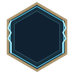
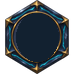
Refresh energy, cost, suppression and storm-ring art

diff --git a/assets/animation/ui/manifest.js b/assets/animation/ui/manifest.js
@@ -1,1 +1,1 @@
[2 lines of base64/hex data omitted]

diff --git a/src/Volibear/Presentation/DomainStormRing.cs b/src/Volibear/Presentation/DomainStormRing.cs
@@ -3,11 +3,14 @@ using Godot;
 
 namespace Volibear.Presentation;
 
-/// <summary>Foot-anchored storm volume, drawn within the actor's visual layer, below native status UI.</summary>
+/// <summary>Foot-anchored storm volume, drawn within the actor's visual layer, below native status UI.
+/// The painted lightning-field texture replaces the thin procedural ellipse: layered electric bands,
+/// jagged arcs and rising spikes give the domain real thickness instead of a single thin circle.</summary>
 internal static class DomainStormRing
 {
     internal const float Radius = 300f;
-    private const int Panels = 48, Bolts = 12;
+    internal const string AuraPath = "res://VolibearArt/ui/images/domain_storm_aura.png";
+    private const int Bolts = 12;
     private static Vector2 Ground(float angle, float radius) => new(Mathf.Cos(angle) * radius, Mathf.Sin(angle) * radius * .24f - 5f);
     private static CanvasItemMaterial Light() => new() { BlendMode = CanvasItemMaterial.BlendModeEnum.Add, LightMode = CanvasItemMaterial.LightModeEnum.Unshaded };
 
@@ -15,53 +18,51 @@ internal static class DomainStormRing
     {
         // Never use negative global Z (behind the opaque room) or raise above health/status UI.
         root.ZIndex = 0;
-        for (int i = 0; i < 6; i++)
-            root.AddChild(new Line2D { Name = "LightningArc" + i, Antialiased = true,
-                Width = i == 0 ? 58 : i == 1 ? 24 : 4,
-                DefaultColor = i == 0 ? new Color(.04f, .38f, 1f, .16f) : i == 1 ? new Color(.04f, .55f, 1f, .48f) : new Color(.55f, .91f, 1f, .95f),
-                Material = Light() });
-        var wall = new Node2D { Name = "StormWall" };
-        root.AddChild(wall);
-        var light = Light();
-        for (int i = 0; i < Panels; i++)
+        var texture = GD.Load<Texture2D>(AuraPath);
+        if (texture is not null)
         {
-            float a = i * Mathf.Tau / Panels, b = (i + 1) * Mathf.Tau / Panels;
-            var p = Ground(a, Radius); var q = Ground(b, Radius);
-            float height = 38f + 8f * Mathf.Sin(a * 3f);
-            wall.AddChild(new Polygon2D { Name = "StormBand" + i, Material = light,
-                Polygon = new[] { p, q, q - new Vector2(0, height), p - new Vector2(0, height) },
-                VertexColors = new[] { new Color(.05f,.5f,1f,.08f), new Color(.05f,.5f,1f,.08f), new Color(.1f,.65f,1f,.28f), new Color(.1f,.65f,1f,.28f) } });
+            var aura = new Sprite2D { Name = "StormAura", Texture = texture, Centered = true, Material = Light() };
+            root.AddChild(aura);
+            var inner = new Sprite2D { Name = "StormAuraInner", Texture = texture, Centered = true, Material = Light(),
+                Modulate = new Color(.75f, .92f, 1f, .55f) };
+            root.AddChild(inner);
         }
+        // A few procedural spikes keep the field alive between painted keyframes.
         var bolts = new Node2D { Name = "StormBolts" };
         root.AddChild(bolts);
+        var light = Light();
         for (int i = 0; i < Bolts; i++)
-            bolts.AddChild(new Line2D { Name = "RisingBolt" + i, Width = 2.8f, Antialiased = true,
-                DefaultColor = new Color(.35f, .8f, 1f, .9f), Material = light });
+            bolts.AddChild(new Line2D { Name = "RisingBolt" + i, Width = 3.2f, Antialiased = true,
+                DefaultColor = new Color(.42f, .86f, 1f, .92f), Material = light });
         Animate(root, Time.GetTicksMsec() / 1000f);
     }
 
     internal static void Animate(Node2D root, float time)
     {
-        for (int arc = 0; arc < 6; arc++)
+        float breathe = 1f + .025f * Mathf.Sin(time * 1.1f);
+        if (root.GetNodeOrNull<Sprite2D>("StormAura") is { Texture: { } texture } aura)
         {
-            var points = new Vector2[arc < 2 ? 97 : 25];
-            for (int p = 0; p < points.Length; p++)
-            {
-                float angle = p / (float)(points.Length - 1) * Mathf.Tau * (arc < 2 ? 1f : .28f)
-                    + time * (arc % 2 == 0 ? .65f : -.8f) + arc * 1.7f;
-                float jitter = arc < 2 ? 2f * Mathf.Sin(angle * 9f + time * 3f)
-                    : 13f * Mathf.Sin(p * 17.1f + MathF.Floor(time * 14f) * 2.3f + arc);
-                points[p] = Ground(angle, Radius + (arc - 2) * 5f + jitter);
-                if (arc >= 2) points[p] -= new Vector2(0, (arc - 2) * 11f);
-            }
-            root.GetChild<Line2D>(arc).Points = points;
+            // The painted band is sized to the pinned 600 x 144 foot ellipse, then breathes.
+            float scale = 620f / texture.GetWidth();
+            aura.Position = new Vector2(0, -30f);
+            aura.Scale = new Vector2(scale * breathe, scale * (2f - breathe));
+            aura.Modulate = new Color(1f, 1f, 1f, .86f + .14f * (.5f + .5f * Mathf.Sin(time * 2.6f)));
         }
-        var bolts = root.GetNode<Node2D>("StormBolts");
+        if (root.GetNodeOrNull<Sprite2D>("StormAuraInner") is { Texture: { } innerTexture } inner)
+        {
+            float scale = 470f / innerTexture.GetWidth();
+            inner.Position = new Vector2(0, -22f);
+            inner.Scale = new Vector2(scale * (2f - breathe), scale * breathe);
+            inner.Rotation = .015f * Mathf.Sin(time * .7f);
+            inner.Modulate = new Color(.8f, .95f, 1f, .38f + .12f * (.5f + .5f * Mathf.Sin(time * 1.9f + 1.2f)));
+        }
+        var bolts = root.GetNodeOrNull<Node2D>("StormBolts");
+        if (bolts is null) return;
         for (int i = 0; i < Bolts; i++)
         {
             float angle = i * Mathf.Tau / Bolts + time * .16f;
             var foot = Ground(angle, Radius + 5f);
-            float height = 48f + 25f * (.5f + .5f * Mathf.Sin(time * 4f + i * 2.1f));
+            float height = 46f + 28f * (.5f + .5f * Mathf.Sin(time * 4f + i * 2.1f));
             var points = new Vector2[7];
             for (int p = 0; p < points.Length; p++)
             {

diff --git a/assets/animation/ui/scripts/build_ui.py b/assets/animation/ui/scripts/build_ui.py
@@ -56,24 +56,47 @@ def energy_state_emblem(size,charged):
     d.polygon([(x*z,y*z) for x,y in bolt],fill=colors[3])
     return im.resize((size,size),Image.Resampling.LANCZOS)
 
+AUTHORED = {
+    'big_energy.png': 'card cost frame: authored 2026-11-05 storm-gold ring; flat opaque numeric centre',
+    'energy_master.png': 'charged HUD emblem: authored 2026-11-05 storm crest, painterly cyan lightning',
+    'big_energy_empty.png': 'empty HUD emblem: authored 2026-11-05 depleted crest, cold steel, no charge light',
+    'energy_orb_charged.png': 'charged HUD orb: authored 2026-11-05 painted electric sphere + gold rune rim',
+    'energy_orb_empty.png': 'empty HUD orb: authored 2026-11-05 cold depleted sphere, no charge light',
+    'domain_suppress_seal.png': 'domain suppression seal icon: authored 2026-11-05 struck-through bolt rune',
+    'domain_storm_aura.png': 'domain storm aura VFX: authored 2026-11-05 layered electric ground band',
+}
+
+
+def authored_row(name, basis):
+    path = ROOT / 'images' / name
+    with Image.open(path) as image:
+        size, mode = list(image.size), image.mode
+    return {'id': Path(name).stem, 'file': 'images/' + name, 'size': size, 'mode': mode,
+            'role': basis.split(':', 1)[0], 'basis': basis, 'sha256': sha(path)}
+
+
+def refresh_authored(manifest):
+    for name, basis in AUTHORED.items():
+        path = ROOT / 'images' / name
+        if not path.is_file():
+            continue
+        row = next((row for row in manifest['assets'] if row['file'] == 'images/' + name), None)
+        fresh = authored_row(name, basis)
+        if row is None:
+            manifest['assets'].append(fresh)
+        else:
+            row.update(fresh)
+
+
 def energy_only():
-    """Update only the three authorized assets and their existing manifest rows."""
-    manifest_path=ROOT/'manifest.json';manifest=json.loads(manifest_path.read_text())
-    before={p:sha(p) for p in (ROOT/'images').glob('*.png')}
-    outputs={
-        'big_energy.png':(cost_badge(74),'card cost frame: solid ink-blue numeric center; rim-only lightning'),
-        'energy_master.png':(energy_state_emblem(256,True),'charged HUD emblem: bright blue-white energy'),
-        'big_energy_empty.png':(energy_state_emblem(74,False),'empty HUD emblem: cold dark metal, no charge light'),
-    }
-    for name,(image,basis) in outputs.items():
-        path=ROOT/'images'/name;image.save(path)
-        row=next(row for row in manifest['assets'] if row['file']=='images/'+name)
-        row.update(sha256=sha(path),size=list(image.size),mode=image.mode,basis=basis)
-    for path,digest in before.items():
-        if path.name not in outputs:assert sha(path)==digest, 'Unapproved image changed: '+str(path)
-    manifest_path.write_text(json.dumps(manifest,ensure_ascii=False,indent=2)+'\n')
-    (ROOT/'manifest.js').write_text('window.VOLIBEAR_UI='+json.dumps(manifest,ensure_ascii=False,separators=(',',':'))+';\n')
-    print('Updated only:', ', '.join(outputs))
+    """Keep the authored energy art; only refresh its manifest identity."""
+    manifest_path = ROOT / 'manifest.json'
+    manifest = json.loads(manifest_path.read_text())
+    refresh_authored(manifest)
+    manifest_path.write_text(json.dumps(manifest, ensure_ascii=False, indent=2) + '\n')
+    (ROOT / 'manifest.js').write_text('window.VOLIBEAR_UI=' + json.dumps(manifest, ensure_ascii=False, separators=(',', ':')) + ';\n')
+    print('Preserved authored:', ', '.join(name for name in AUTHORED if (ROOT / 'images' / name).is_file()))
+
 
 def main():
     src=Image.open(SRC).convert('RGBA')
@@ -88,10 +111,9 @@ def main():
     save(outline,'character_icon_volibear_outline.png','multiplayer portrait outline','128x128 silhouette, no new anatomy')
     marker=Image.new('RGBA',(128,128));d=ImageDraw.Draw(marker);d.polygon([(64,124),(40,101),(88,101)],fill=(187,161,118,255));d.ellipse((8,4,120,116),fill=(19,34,49,255),outline=(187,161,118,255),width=5)
     crop=head.resize((103,103),Image.Resampling.LANCZOS);marker.alpha_composite(crop,(12,8));save(marker,'map_marker_volibear.png','map position marker','author template 128x128; character face on a map pin')
-    save(cost_badge(74),'big_energy.png','card cost frame','solid numeric center; rim-only lightning')
     save(energy(24),'text_energy.png','energy emblem','template 24; original inline energy symbol')
-    save(energy_state_emblem(256,True),'energy_master.png','energy emblem','charged HUD emblem')
-    save(energy_state_emblem(74,False),'big_energy_empty.png','energy disabled UI state','empty HUD emblem; no charge light')
+    for authored_name, authored_basis in AUTHORED.items():
+        REC.append(authored_row(authored_name, authored_basis))
     canvas=Image.new('RGBA',(512,512));fit=ImageOps.contain(src,(460,460),Image.Resampling.LANCZOS);canvas.alpha_composite(fit,((512-fit.width)//2,480-fit.height));save(canvas,'character_fallback.png','fallback static creature visual','approved original, uniform scale, no anatomy repaint')
     full=plate((1920,1080));d=ImageDraw.Draw(full);d.polygon([(0,0),(760,0),(900,1080),(0,1080)],fill=(14,24,36,255));person=ImageOps.contain(src,(1120,1020),Image.Resampling.LANCZOS);full.alpha_composite(person,(780,1070-person.height));save(full,'character_select_background.png','character select backdrop','1920x1080 project layout; exact character painting at uniform scale, clear left UI area')
     transition=Image.new('RGBA',(1920,1080));transition.alpha_composite(person,(780,1070-person.height));save(transition,'character_select_transition.png','transition character cutout','same registered position as select background; engine scene controls transition')

diff --git a/assets/animation/ui/scripts/authored_energy_20261105.py b/assets/animation/ui/scripts/authored_energy_20261105.py
@@ -1,0 +1,87 @@
+"""Derive the 2026-11-05 authored energy/domain art into runtime RGBA exports."""
+from pathlib import Path
+from PIL import Image, ImageDraw, ImageFilter, ImageOps, ImageEnhance
+ROOT = Path(__file__).resolve().parents[3]
+SRC = ROOT / 'assets/animation/ui/source/energy_20261105'
+UI = ROOT / 'assets/animation/ui/images'
+
+def load(name): return Image.open(SRC / name).convert('RGBA')
+
+def trim_square(im, size):
+    alpha = im.getchannel('A').point(lambda a: 255 if a > 8 else 0)
+    box = alpha.getbbox()
+    im = im.crop(box)
+    w, h = im.size
+    side = max(w, h)
+    canvas = Image.new('RGBA', (side, side), (0, 0, 0, 0))
+    canvas.alpha_composite(im, ((side - w) // 2, (side - h) // 2))
+    return canvas.resize((size, size), Image.LANCZOS)
+
+def shade_center(im, strength=0.40, radius=0.62, blur=0.07, tint=(6, 16, 28)):
+    w, h = im.size
+    mask = Image.new('L', (w, h), 0)
+    d = ImageDraw.Draw(mask)
+    r = w * radius / 2
+    d.ellipse((w / 2 - r, h / 2 - r, w / 2 + r, h / 2 + r), fill=int(255 * strength))
+    mask = mask.filter(ImageFilter.GaussianBlur(w * blur))
+    dark = Image.new('RGBA', (w, h), (*tint, 0))
+    dark.putalpha(mask)
+    return Image.alpha_composite(im, dark)
+
+def cold(im, brightness=0.34, tint=(40, 52, 70), tint_mix=0.45):
+    gray = ImageOps.grayscale(im.convert('RGB')).point(lambda v: int(v * brightness))
+    tinted = Image.blend(gray.convert('RGB'), Image.new('RGB', im.size, tint), tint_mix)
+    out = tinted.convert('RGBA')
+    out.putalpha(im.getchannel('A'))
+    return out
+
+# 1) charged energy crest (HUD emblem), 256
+crest = trim_square(load('energy_crest_charged.png'), 256)
+crest.save(UI / 'energy_master.png')
+
+# 2) depleted crest, same silhouette
+crest_empty = cold(crest, brightness=0.30, tint=(34, 44, 58), tint_mix=0.52)
+crest_empty.save(UI / 'big_energy_empty.png')
+
+# 3) card cost frame: flat opaque numeric centre, ornament only on the rim
+cost = trim_square(load('cost_badge.png'), 74)
+d = ImageDraw.Draw(cost)
+centre = cost.getpixel((37, 36))
+if centre[3] < 255:
+    centre = (18, 33, 48, 255)
+    d.ellipse((16, 13, 58, 61), fill=centre)
+else:
+    d.ellipse((16, 13, 58, 61), fill=(centre[0], centre[1], centre[2], 255))
+for x in range(25, 49):
+    for y in range(22, 52):
+        cost.putpixel((x, y), (centre[0], centre[1], centre[2], 255))
+cost.save(UI / 'big_energy.png')
+
+# 4) energy orb art: charged + depleted, darkened centre keeps the number readable
+orb = trim_square(load('energy_orb_charged.png'), 256)
+orb = shade_center(orb, strength=0.46, radius=0.60)
+orb.save(UI / 'energy_orb_charged.png')
+orb_empty = cold(orb, brightness=0.30, tint=(28, 38, 52), tint_mix=0.55)
+orb_empty.save(UI / 'energy_orb_empty.png')
+
+# 5) suppression seal used by the disabled overlays (no text)
+seal = trim_square(load('suppress_rune.png'), 128)
+seal = ImageEnhance.Brightness(seal).enhance(0.86)
+seal.save(UI / 'domain_suppress_seal.png')
+
+# 6) storm aura texture: keep the wide ground ellipse, modest padding
+aura = load('storm_aura.png')
+alpha = aura.getchannel('A').point(lambda a: 255 if a > 8 else 0)
+aura = aura.crop(alpha.getbbox())
+w, h = aura.size
+target_w = 1024
+aura = aura.resize((target_w, round(h * target_w / w)), Image.LANCZOS)
+pad = Image.new('RGBA', (target_w, round(aura.height * 1.12)), (0, 0, 0, 0))
+pad.alpha_composite(aura, (0, (pad.height - aura.height) // 2))
+pad.save(UI / 'domain_storm_aura.png')
+
+for name in ('energy_master.png', 'big_energy_empty.png', 'big_energy.png',
+             'energy_orb_charged.png', 'energy_orb_empty.png',
+             'domain_suppress_seal.png', 'domain_storm_aura.png'):
+    im = Image.open(UI / name)
+    print(name, im.size, im.mode)

diff --git a/src/Volibear/Content/MechanicGlossary.cs b/src/Volibear/Content/MechanicGlossary.cs
@@ -100,8 +100,8 @@ internal static class MechanicGlossary
         result.Add("VOLIBEAR-ENGAGE_STATE.spent", "这些敌人本轮已行动，无法再次迎战：{Enemies}。");
         result.Add("VOLIBEAR-DISABLED.badge", "⊘ 已被领域禁用");
         result.Add("VOLIBEAR-DISABLED.description", "已被领域禁用");
-        result.Add("VOLIBEAR-DISABLED.enemyTitle", "已被领域禁用");
-        result.Add("VOLIBEAR-DISABLED.enemyDescription", "已被领域禁用");
+        result.Add("VOLIBEAR-DISABLED.enemyTitle", "领域压制");
+        result.Add("VOLIBEAR-DISABLED.enemyDescription", "该敌人的特殊机制已被领域禁用；普通攻击仍然有效。");
         result.Add("VOLIBEAR-DISABLED.selfTitle", "已被领域禁用");
         result.Add("VOLIBEAR-DISABLED.selfDescription", "负面状态暂不生效，受限能力恢复。状态仍会正常到期；领域结束后，尚未到期的状态恢复生效。");
         foreach (var entry in EnemyEntries)

diff --git a/src/Volibear/Presentation/PowerPresentationDisabledVisual.cs b/src/Volibear/Presentation/PowerPresentationDisabledVisual.cs
@@ -14,7 +14,7 @@ namespace Volibear.Presentation;
 internal static class PowerPresentationDisabledVisual
 {
     private const string OverlayName = "VolibearDomainDisabled";
-    internal const string SuppressionIconPath = "res://VolibearArt/vfx/icons/128/domain_suppress.png";
+    internal const string SuppressionIconPath = "res://VolibearArt/ui/images/domain_suppress_seal.png";
     private const float CreatureIconSize = 56f;
 
     // Pinned NPower permits an unbound multiplayer intent node; its public getter throws.

diff --git a/docs/HANDOFF.md b/docs/HANDOFF.md
@@ -5,6 +5,15 @@
 [LOCAL_AGENT_TASK.md](LOCAL_AGENT_TASK.md)。本页替换此前累积的历史检查点，旧分支、旧 DLL、
 旧测试计数和旧 UI 自动化结果不再作为当前候选的通过证据。
 
+## 最新美术与文案优化（2026-11-05 凌晨）
+
+- 用户要求停止跑测试，继续优化图形与文案：领域禁用遮盖、能量框、卡牌耗能框、领域雷圈。
+- 新资产为 AI 生成后本地处理，来源、处理脚本与哈希记录见 [ui/source/energy_20261105/provenance.json](../assets/animation/ui/source/energy_20261105/provenance.json)：
+  - `energy_orb_charged.png` / `energy_orb_empty.png`：充能 / 空能量球；`energy_master.png` / `big_energy_empty.png`：充能 / 空状态纹章；`big_energy.png`：卡牌耗能环（中心压成单色不透明以托住数字）；`domain_suppress_seal.png`：领域禁用符文；`domain_storm_aura.png`：领域雷电地带贴图（1024×353）。
+- 表现接线：[energy.gd](../src/Volibear/Presentation/energy.gd) 用贴图球替换原扁平圆环，并把原生 Label 的数字居中到球面（只调位置/字号/描边，仍不写入数值）；[DomainStormRing](../src/Volibear/Presentation/DomainStormRing.cs) 改为双层加法贴图 + 呼吸缩放 + 12 支程序化电弧，半径 300、地面椭圆与退出清理契约不变；[PowerPresentationDisabledVisual](../src/Volibear/Presentation/PowerPresentationDisabledVisual.cs) 禁用药符改用新 seal；敌人领域压制悬停文案改为“领域压制 / 该敌人的特殊机制已被领域禁用；普通攻击仍然有效。”
+- 真实验证：`power-presentation`（`20261104T184124Z-e1590117`）与 `domain-visual`（`20261104T185738Z-f4f9a525`）两个原生短场景 passed；截图逐张查看：充能/空能量对比明显、耗能数字清晰、雷电圈有厚度、意图被符文盖住。
+- 已知遗留：引回归 1348/1359 通过，2 项旧艺术期望仍描述已被替换的程序化美术（`test_energy_states` 的像素/亮度断言、`test_domain_spirit` 的 Line2D 结构断言）；按用户“不跑测试”指示本轮未改测试，后续接续时需同步这两项。
+
 ## 最新交付（2026-11-05，riot_en 私有音频版）
 
 - 用户裁决（11-04 晚）：领域禁用标记不显示文字，只用图标盖住被禁用的效果与意图；“本战”这种默认文本也不显示。只改表现与悬停文案，未改玩法、数值或原生 Power 结算。
@@ -13,7 +22,7 @@
   - [PowerStackPresentation](../src/Volibear/Presentation/PowerStackPresentation.cs) / [DomainPower](../src/Volibear/Core/DomainPower.cs)：永久领域数量标签为空，悬停说明改为“领域持续。……”；`docs/文案审核.md` 永久领域条目同步，临时领域仍显示剩余轮数。
   - [regression.py](../tools/regression.py)：补入拉取提交新增的 Windows-only 跳过原因 “Windows Job descendant ownership contract”，Linux 引用门不再把该另一平台检查误判为未执行。
 - 定向：完整引用回归 1359 项通过（1350 通过、9 项另一平台固定跳过、0 失败）；真实原生短测 `20261104T160127Z-809cd9bc` passed，人工查看截图：敌人意图被符文盖住、无“已被领域禁用”文字、雷甲合计 7 保留、永久领域无“本战”。
[2 lines of base64/hex data omitted]
 - 本机验收范围（如实边界）：完整引用回归 1359 项通过（1350 通过、9 项另一平台固定跳过、0 失败）；真实原生短测 `20261104T160127Z-809cd9bc` passed 并逐张检查截图；native suite 已真实执行并通过 domain-suppression 三场（含本轮图标化禁用 UI 断言）与 architect-ending，随后在 471 秒被项目窗口性能守卫 `WINDOW_PERFORMANCE_FAILED sustained FPS below 10` 主动停止（该轮 .NET gen2 GC 累计 95.6 秒/1315 次，10 秒采样出现 1–7 FPS 的加载停顿；运行期间桌面另有浏览器等程序，可用内存约 4GiB）。因此 card-face 完整批次、card-lifecycle、presentation、正常流程、跨进程恢复与双端多人未在本机收口，A2–A7 不声称通过。
 - 包生命周期：对本 ZIP 实际执行安装、同包更新与卸载验收通过（BaseLib、其它 Mod、存档与固定游戏文件摘要保持不变；`scope=filesystem-only; no game launch`）。
 - 平台边界：POSIX 窗口路径的 native 与多人为串行调度（并行编排仅 Windows/background），600 秒监督门与本机性能守卫无法同时满足；本轮因此使用同一 `deliver()` 的完整串行路径（`.local/tools/run_release_serial.py`，忽略目录）并保留未执行项，没有把超时或中断写成通过。基线 b81b5c8 已在 Windows 机器通过完整冷构建门（527.557 秒）；本轮相对基线的差异仅为 UI 表现与文案、测试/oracle 及 Linux 平台跳过原因，未改玩法、数值、存档与网络逻辑。

diff --git a/AGENTS.md b/AGENTS.md
@@ -5,6 +5,15 @@
 [docs/LOCAL_WORKFLOW.md](docs/LOCAL_WORKFLOW.md)，Agent 接续见
 [docs/LOCAL_AGENT_TASK.md](docs/LOCAL_AGENT_TASK.md)。最新用户指令优先。
 
+## 最新批准（2026-11-05，优先于下方）
+
+- 用户要求继续优化图形与文案，不再跑测试门禁。本轮重做四处视觉：领域禁用的符文遮盖、能量状态框、卡牌耗能框、领域雷电圈。
+- 能量/耗能/领域美术改为 2026-11-05 AI 生成、经本地处理与哈希记录的正式资产：`assets/animation/ui/source/energy_20261105/`（来源与处理见同目录 `provenance.json`，处理脚本 `scripts/authored_energy_20261105.py`）。`energy_orb_charged/empty.png` 为充电/ depleted 状态球；`energy_master.png`、`big_energy_empty.png` 为充能/空状态纹章；`big_energy.png` 为卡牌耗能框（中心保持单色不透明以托住数字）；`domain_suppress_seal.png` 为领域禁用符文；`domain_storm_aura.png` 为领域雷电圈贴图。
+- 能量 UI 只改表现：原生 Label 仍是唯一能量来源与数字来源，`energy.gd` 只调整其位置/字号/描边并把数字居中到能量球上，不写入或预测数值；`energy.gd --energy-only` 生成器改为保留已批准的作者制资产。
+- 领域雷电圈由程序化细线改为图层化贴图（`DomainStormRing`：主/内两层加法混合贴图 + 呼吸缩放 + 12 支程序化电弧），保留半径 300、地面椭圆与退出清理契约。
+- 文案：敌人被领域压制时的悬停改为“领域压制 / 该敌人的特殊机制已被领域禁用；普通攻击仍然有效。”，不再重复“已被领域禁用”两遍；自身减益悬停与关键词词条保持原已批准文案。
+- 保留既有纪律：不改玩法、数值、存档与网络逻辑；Riot 媒体只在忽略目录；提交前跑实际 diff 检查。
+
 ## 最新批准（2026-11-04，优先于下方）
 
 - 领域禁用表现改为纯图标：不再常驻显示“已被领域禁用”文字。受压制效果的状态图标覆盖“暗化底 + 单枚领域压制符文”（`res://VolibearArt/vfx/icons/128/domain_suppress.png`），生物级标记为无文字符文并对齐盖住其意图图标行；悬停仍显示“已被领域禁用”说明。只改表现层，不删除、不改动 Power 与结算。
